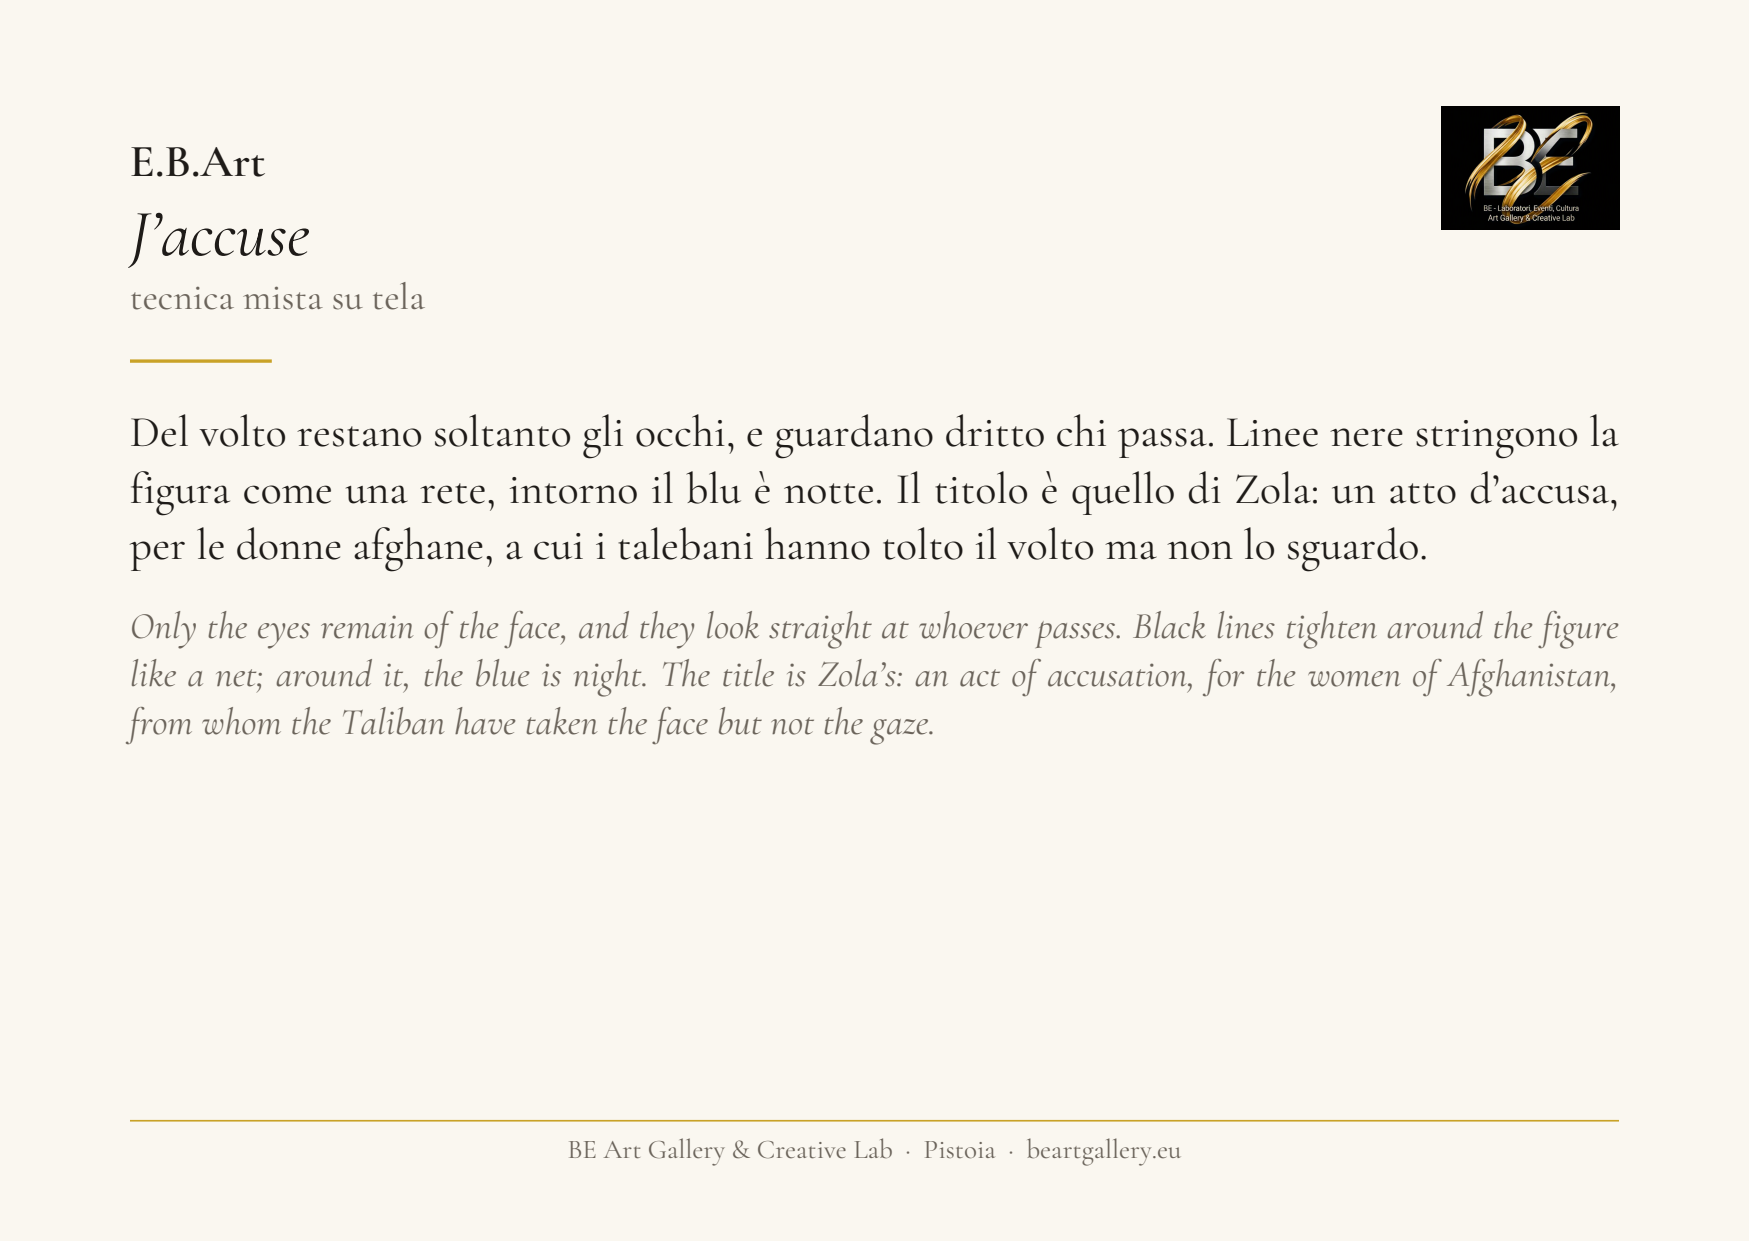
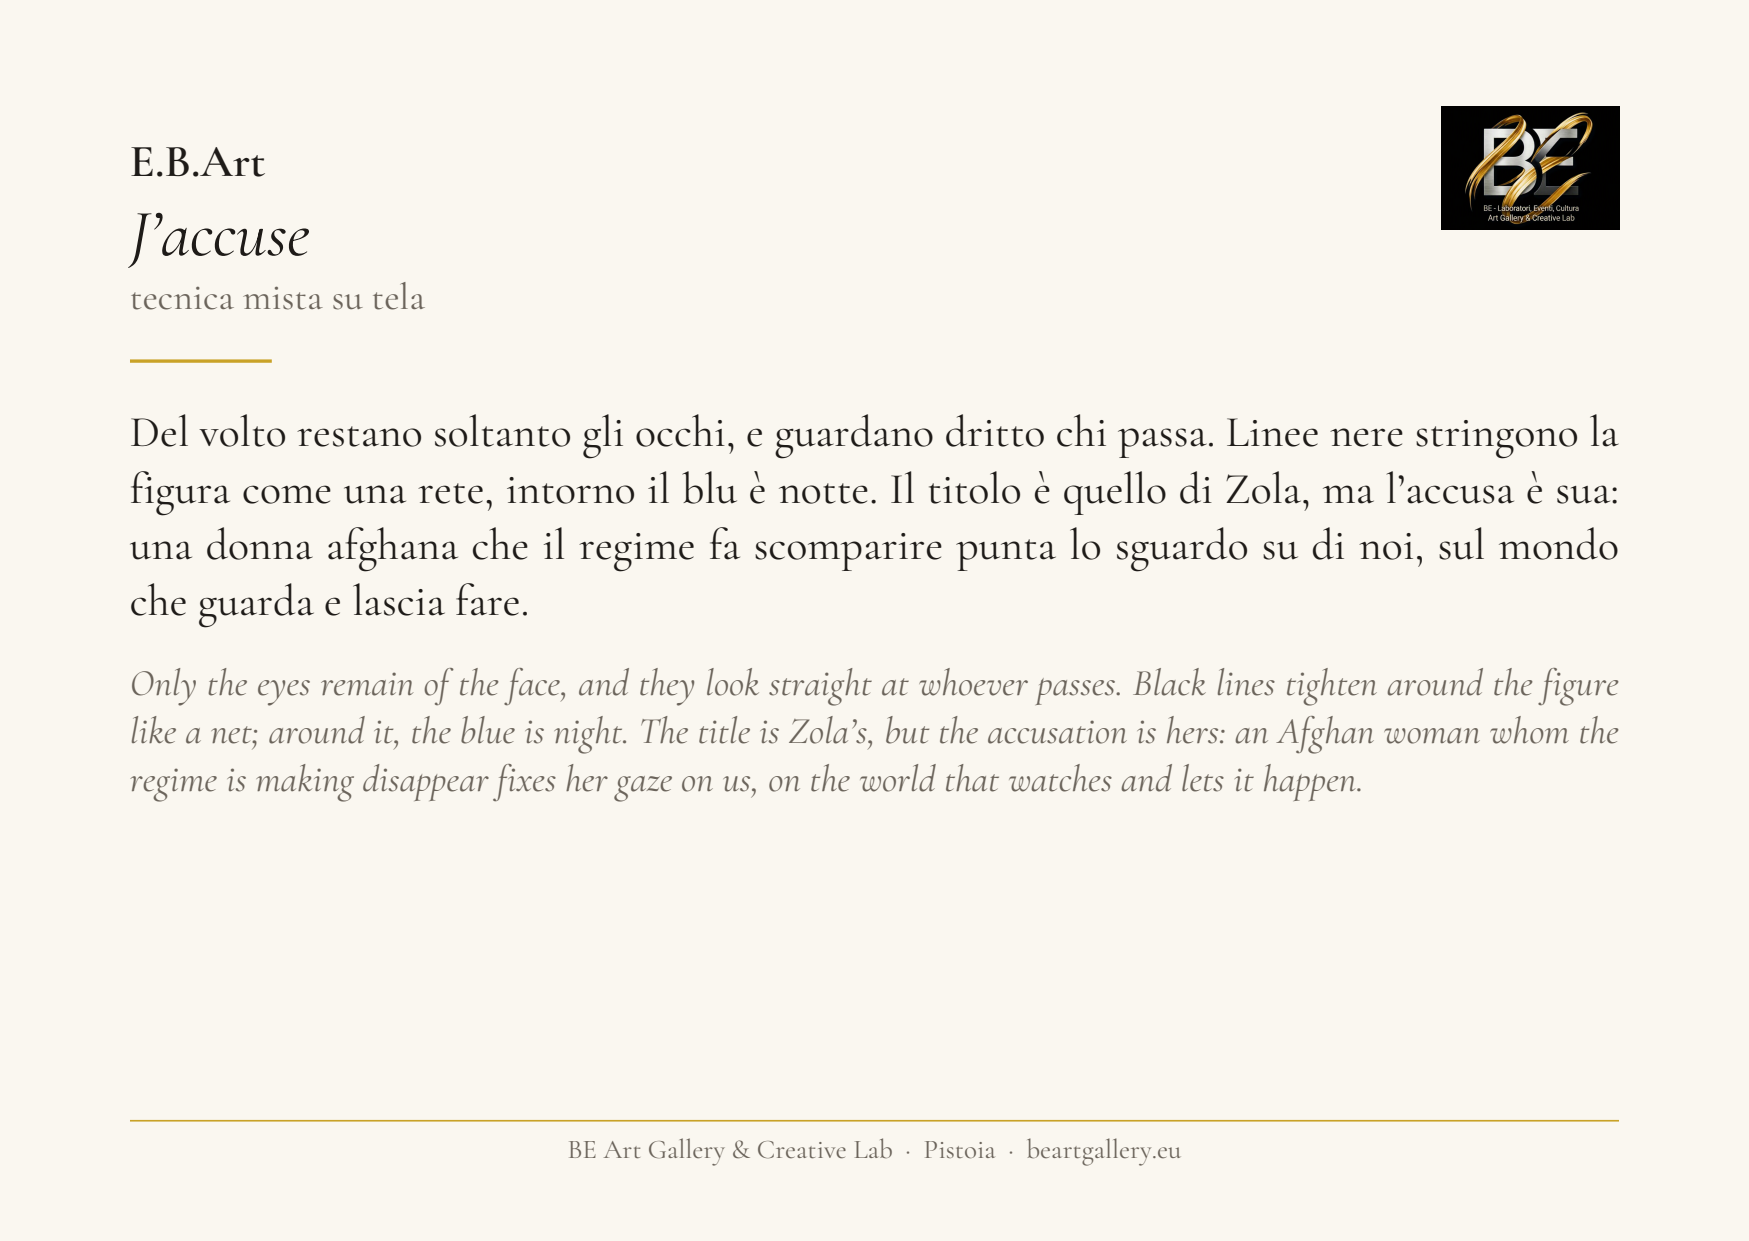
Riscrive la didascalia di J'accuse: è la donna ad accusare chi guarda
Claude-Session: https://claude.ai/code/session_0148bZgqQiCtdshijf84M1Qp

Changed region(s): [[0.0617, 0.3674, 0.9262, 0.643]]

diff --git a/testi-critici/artisti/eb-art/analisi.md b/testi-critici/artisti/eb-art/analisi.md
@@ -42,13 +42,13 @@
 
 ### *J'accuse*
 
-**Italiano** — _261 caratteri_
+**Italiano** — _293 caratteri_ · v3: l'accusa è della donna verso chi guarda e lascia fare, come chiarito da Elena
 
-> Del volto restano soltanto gli occhi, e guardano dritto chi passa. Linee nere stringono la figura come una rete, intorno il blu è notte. Il titolo è quello di Zola: un atto d'accusa, per le donne afghane, a cui i talebani hanno tolto il volto ma non lo sguardo.
+> Del volto restano soltanto gli occhi, e guardano dritto chi passa. Linee nere stringono la figura come una rete, intorno il blu è notte. Il titolo è quello di Zola, ma l'accusa è sua: una donna afghana che il regime fa scomparire punta lo sguardo su di noi, sul mondo che guarda e lascia fare.
 
 **English**
 
-> Only the eyes remain of the face, and they look straight at whoever passes. Black lines tighten around the figure like a net; around it, the blue is night. The title is Zola's: an act of accusation, for the women of Afghanistan, from whom the Taliban have taken the face but not the gaze.
+> Only the eyes remain of the face, and they look straight at whoever passes. Black lines tighten around the figure like a net; around it, the blue is night. The title is Zola's, but the accusation is hers: an Afghan woman whom the regime is making disappear fixes her gaze on us, on the world that watches and lets it happen.
 
 **Cosa ho visto** — figura avvolta in un velo ocra e oro, steso a spatola in cerchi; volto coperto fino agli occhi, che sono l'unica parte dipinta con dettaglio; linee nere colate in rilievo che disegnano le pieghe come una rete o una gabbia; fondo blu scuro graffiato, con bianchi strappati.
 
